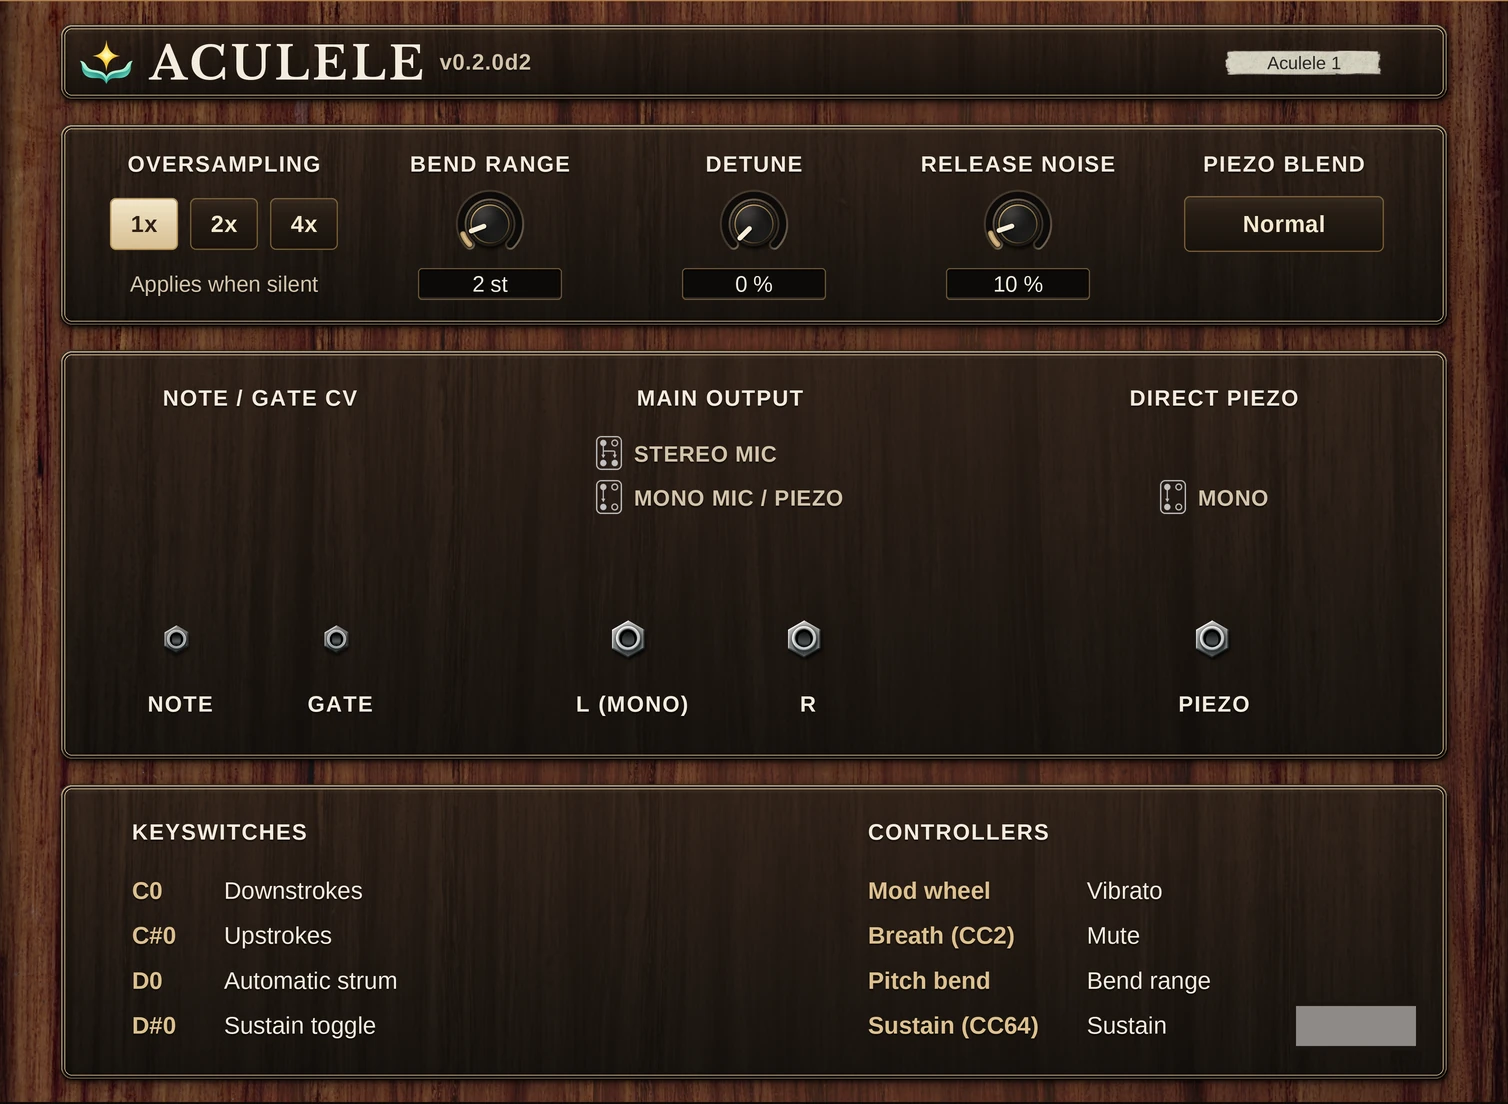
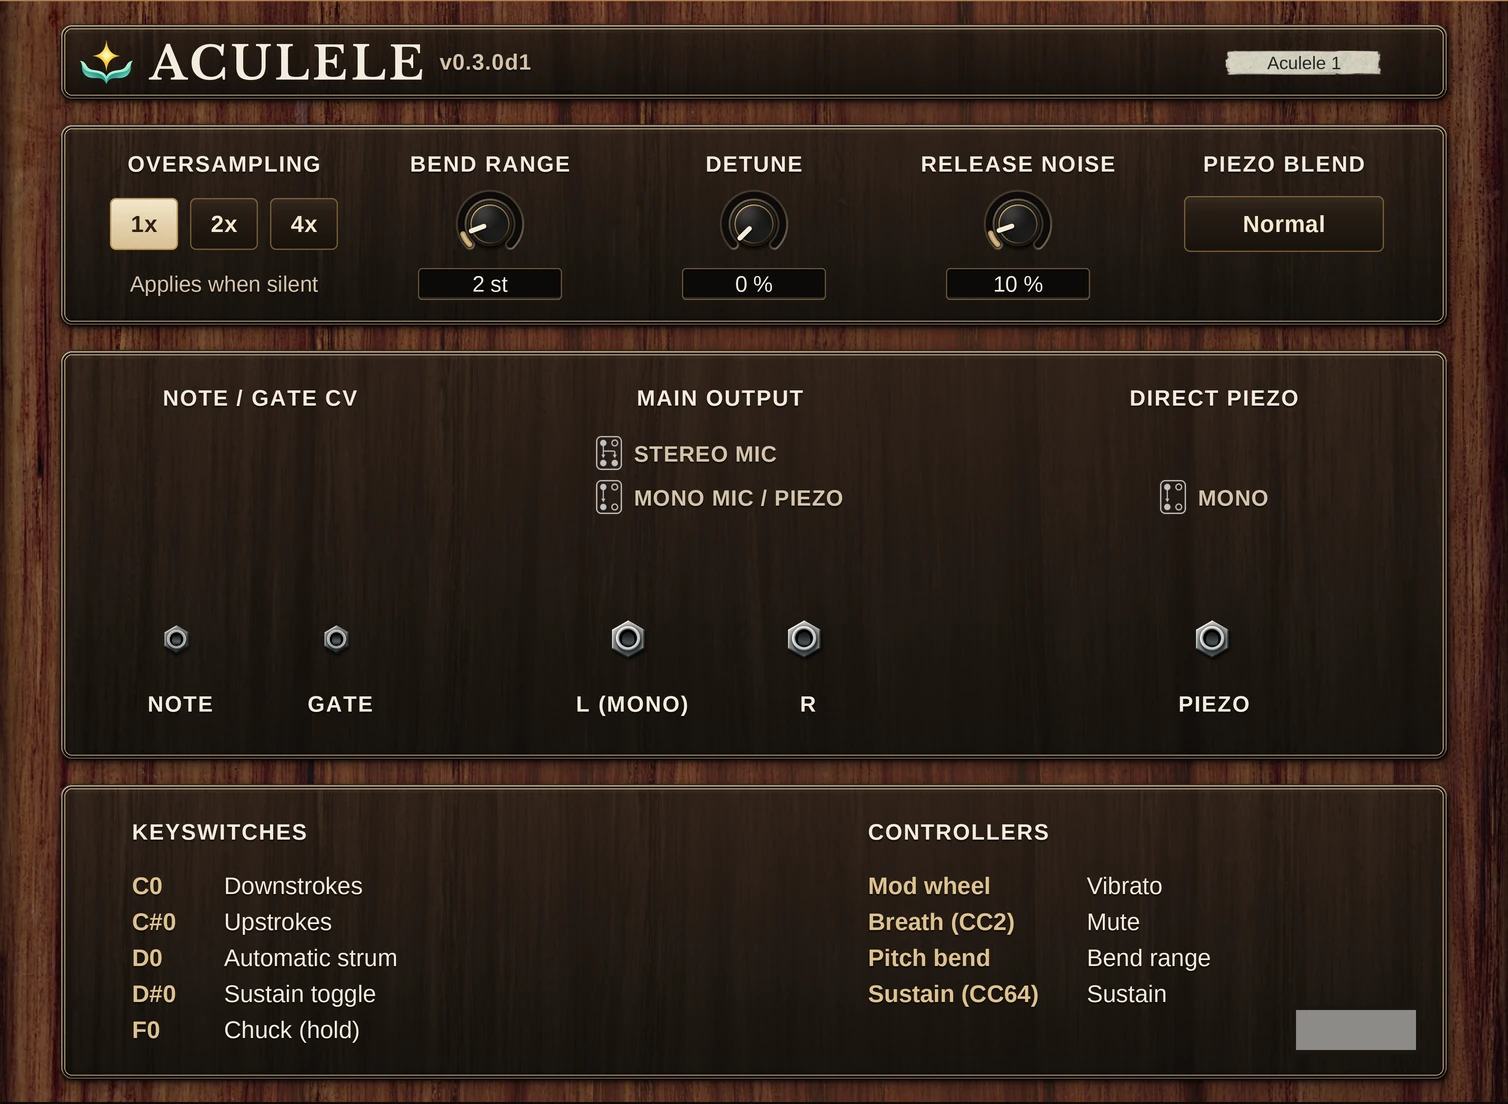
Aculele's 0.3.0d1 rear panel and strokes on its coming-soon page
The rear image comes from the final first-pass panels at
reason-rack-extensions main 3f161d1c, which add the F0 chuck keyswitch;
the front and thumbnail are byte-identical. The playing copy now says
the strum goes down with the nail and up with the pad, and that holding
F0 makes each stroke a chuck.

Claude-Session: https://claude.ai/code/session_01FqKD1t6d9Tje5juqcUbKQ6

diff --git a/product/aculele/index.html b/product/aculele/index.html
@@ -105,7 +105,7 @@
         <ul class="features">
           <li><h3>Re-entrant tuning</h3><p>Standard tuning puts a high G on the fourth string, so chords sit close and bright. Low G swaps in a lower fourth string, and D tuning raises every string a whole tone.</p></li>
           <li><h3>Strings and bodies</h3><p>Nylon and fluorocarbon sets each have their own gauges, tension and damping. Soprano, concert and tenor bodies follow published dimensions and scale lengths, in spruce, mahogany or maple.</p></li>
-          <li><h3>Strum, pick, thumb or finger</h3><p>Strum sweeps a finger down and up over the neck, where a ukulele is strummed. Finger and thumb pluck with soft skin; the pick gives melodies a sharper edge. Keyswitches latch downstrokes, upstrokes or automatic strumming.</p></li>
+          <li><h3>Strum, pick, thumb or finger</h3><p>Strum sweeps a finger over the neck, where a ukulele is strummed: down with the nail, back up with the pad. Finger and thumb pluck with soft skin; the pick gives melodies a sharper edge. Keyswitches latch downstrokes, upstrokes or automatic strumming, and holding F0 turns each stroke into a muted chuck.</p></li>
           <li><h3>Mic, piezo and room</h3><p>Hear it through a stereo mic pair, a mono mic or an under-saddle piezo, then set the body, room and width. A separate piezo output carries the pickup on its own for its own processing.</p></li>
         </ul>
       </div>
@@ -120,8 +120,8 @@
           <p class="lede">Turn the rack around for oversampling, bend range, detune and release noise. A stereo main output, a direct piezo output, Note and Gate CV inputs, automation and Remote mapping connect Aculele to the rest of your rack.</p>
         </div>
         <figure class="shot">
-          <a class="screenshot-link" href="aculele-rack-rear.webp?v=20261027-coming-soon" aria-label="View the Aculele Rack Extension rear panel at full size" data-analytics-cta="rear_panel" data-analytics-action="view_screenshot">
-            <img src="aculele-rack-rear.webp?v=20261027-coming-soon" width="1508" height="1104" loading="lazy" decoding="async" alt="Aculele Rack Extension rear panel with oversampling, bend range, detune, release noise and piezo blend settings, Note and Gate CV inputs, the main and direct piezo outputs, and keyswitch and controller guides">
+          <a class="screenshot-link" href="aculele-rack-rear.webp?v=20261027-aculele-030d1" aria-label="View the Aculele Rack Extension rear panel at full size" data-analytics-cta="rear_panel" data-analytics-action="view_screenshot">
+            <img src="aculele-rack-rear.webp?v=20261027-aculele-030d1" width="1508" height="1104" loading="lazy" decoding="async" alt="Aculele Rack Extension rear panel with oversampling, bend range, detune, release noise and piezo blend settings, Note and Gate CV inputs, the main and direct piezo outputs, and keyswitch and controller guides">
             <span class="shot-caption">Rear panel &amp; connections <span>View full size <span aria-hidden="true">↗</span></span></span>
           </a>
         </figure>

diff --git a/product/SCREENSHOTS.md b/product/SCREENSHOTS.md
@@ -16,7 +16,7 @@ Rack device, such as Septum, have no page.
 | Electry | Unchanged complete Rack renders in `Design/Rendered`, revision `c140bb8f`; earlier candidate media retained. | `electry-rack-front.webp` and `electry-rack-rear.webp`, 754 × 621 |
 | Ceres | Unchanged Rack 1.0.0f1 first-public-release candidate prepared 23 October 2026; exact release sources, default panel state and SHA-256 records in [`ceres/ASSET_PROVENANCE.json`](ceres/ASSET_PROVENANCE.json). | Complete front/back PNGs and matching WebPs, 754 × 414; 800 × 800 thumbnail; four-page candidate player guide |
 | Press78 | Unchanged Rack 0.1.0b15 panel renders `Docs/screenshots/Press78_{Front,Back}.png`, canonical revision `1f74ad77`; earlier candidate media retained. | `press78-rack-front.webp` and `press78-rack-rear.webp`, 754 × 552 |
-| Aculele | Rack 0.2.0d2 development panel previews from `Examples/Aculele/Design/render_panels.py --review`, branch revision `e769e2e5`; no SDK build. Records in [`aculele/ASSET_PROVENANCE.json`](aculele/ASSET_PROVENANCE.json). | `aculele-rack-front.webp` and `aculele-rack-rear.webp`, 1508 × 1104; 800 × 800 thumbnail |
+| Aculele | Rack 0.3.0d1 final first-pass panel previews from `Examples/Aculele/Design/render_panels.py --review`, main revision `3f161d1c`; no SDK build. Records in [`aculele/ASSET_PROVENANCE.json`](aculele/ASSET_PROVENANCE.json). | `aculele-rack-front.webp` and `aculele-rack-rear.webp`, 1508 × 1104; 800 × 800 thumbnail |
 | Respira | Rack 0.1.0d1 redesigned first-pass panel previews committed in `Examples/Respira/Docs/screenshots/`, main revision `70df34a8`; no SDK build. Records in [`respira/ASSET_PROVENANCE.json`](respira/ASSET_PROVENANCE.json). | `respira-rack-front.webp` and `respira-rack-rear.webp`, 1508 × 552; 800 × 800 thumbnail |
 | Aculyre | Rack 0.4.0d1 final first-pass panel previews from `Examples/Aculyre/Design/render_panels.py`, main revision `854e3197` (byte-identical to the branch revision `2ecab2ac` first published); no SDK build. Records in [`aculyre/ASSET_PROVENANCE.json`](aculyre/ASSET_PROVENANCE.json). | `aculyre-rack-front.webp` and `aculyre-rack-rear.webp`, 1508 × 828; 800 × 800 thumbnail |
 | Lamer Degrader | Public Shop listing 1.0.0; existing full front/rear PNGs and thumbnail verified byte-for-byte against current public Shop originals. Exact URLs and hashes are in `lamer/ASSET_PROVENANCE.json`. | Complete front/rear PNGs and WebPs, 1600 × 293; 800 × 800 thumbnail. Existing mascots, poster and demonstration video retained. |
@@ -87,9 +87,10 @@ features. The relevant source is under `Examples/<Product>` in the
   redistribution of the imported bank has not been cleared (Press78 README).
 - Aculele: soprano, concert and tenor bodies; spruce, mahogany or maple;
   nylon or fluorocarbon strings in standard (re-entrant), Low G or D tuning;
-  finger, pick, thumb and strum playing with keyswitched strokes; stereo mic,
+  finger, pick, thumb and strum playing, the strum down with the nail and up
+  with the pad, with keyswitched strokes and a held F0 chuck; stereo mic,
   mono mic and piezo capture; a direct piezo output; Note/Gate CV; rear
-  oversampling; seven factory patches; from the Rack README at 0.2.0d2 and the
+  oversampling; seven factory patches; from the Rack README at 0.3.0d1 and the
   canonical README. Body dimensions are described as published, not measured;
   no other manufacturer's name appears on the page.
 - Respira: the mod wheel as the hand on the bellows, nothing sounding without
@@ -150,6 +151,9 @@ social images. The panels were rendered while each instrument's first pass was
 still under way; they are replaced once each first pass is done.
 Respira's images and thumbnail were refreshed the same day from its redesigned
 panel (white wordmark, darker oxblood finish, the gauge over Air and Keyboard).
+Aculele's rear image was refreshed from its 0.3.0d1 panels, which add the F0
+chuck keyswitch; its front and thumbnail are byte-identical to the first ones.
+Aculyre's merged panels are byte-identical to the ones first published.
 
 ### Public Shop media review — 27 October 2026
 
